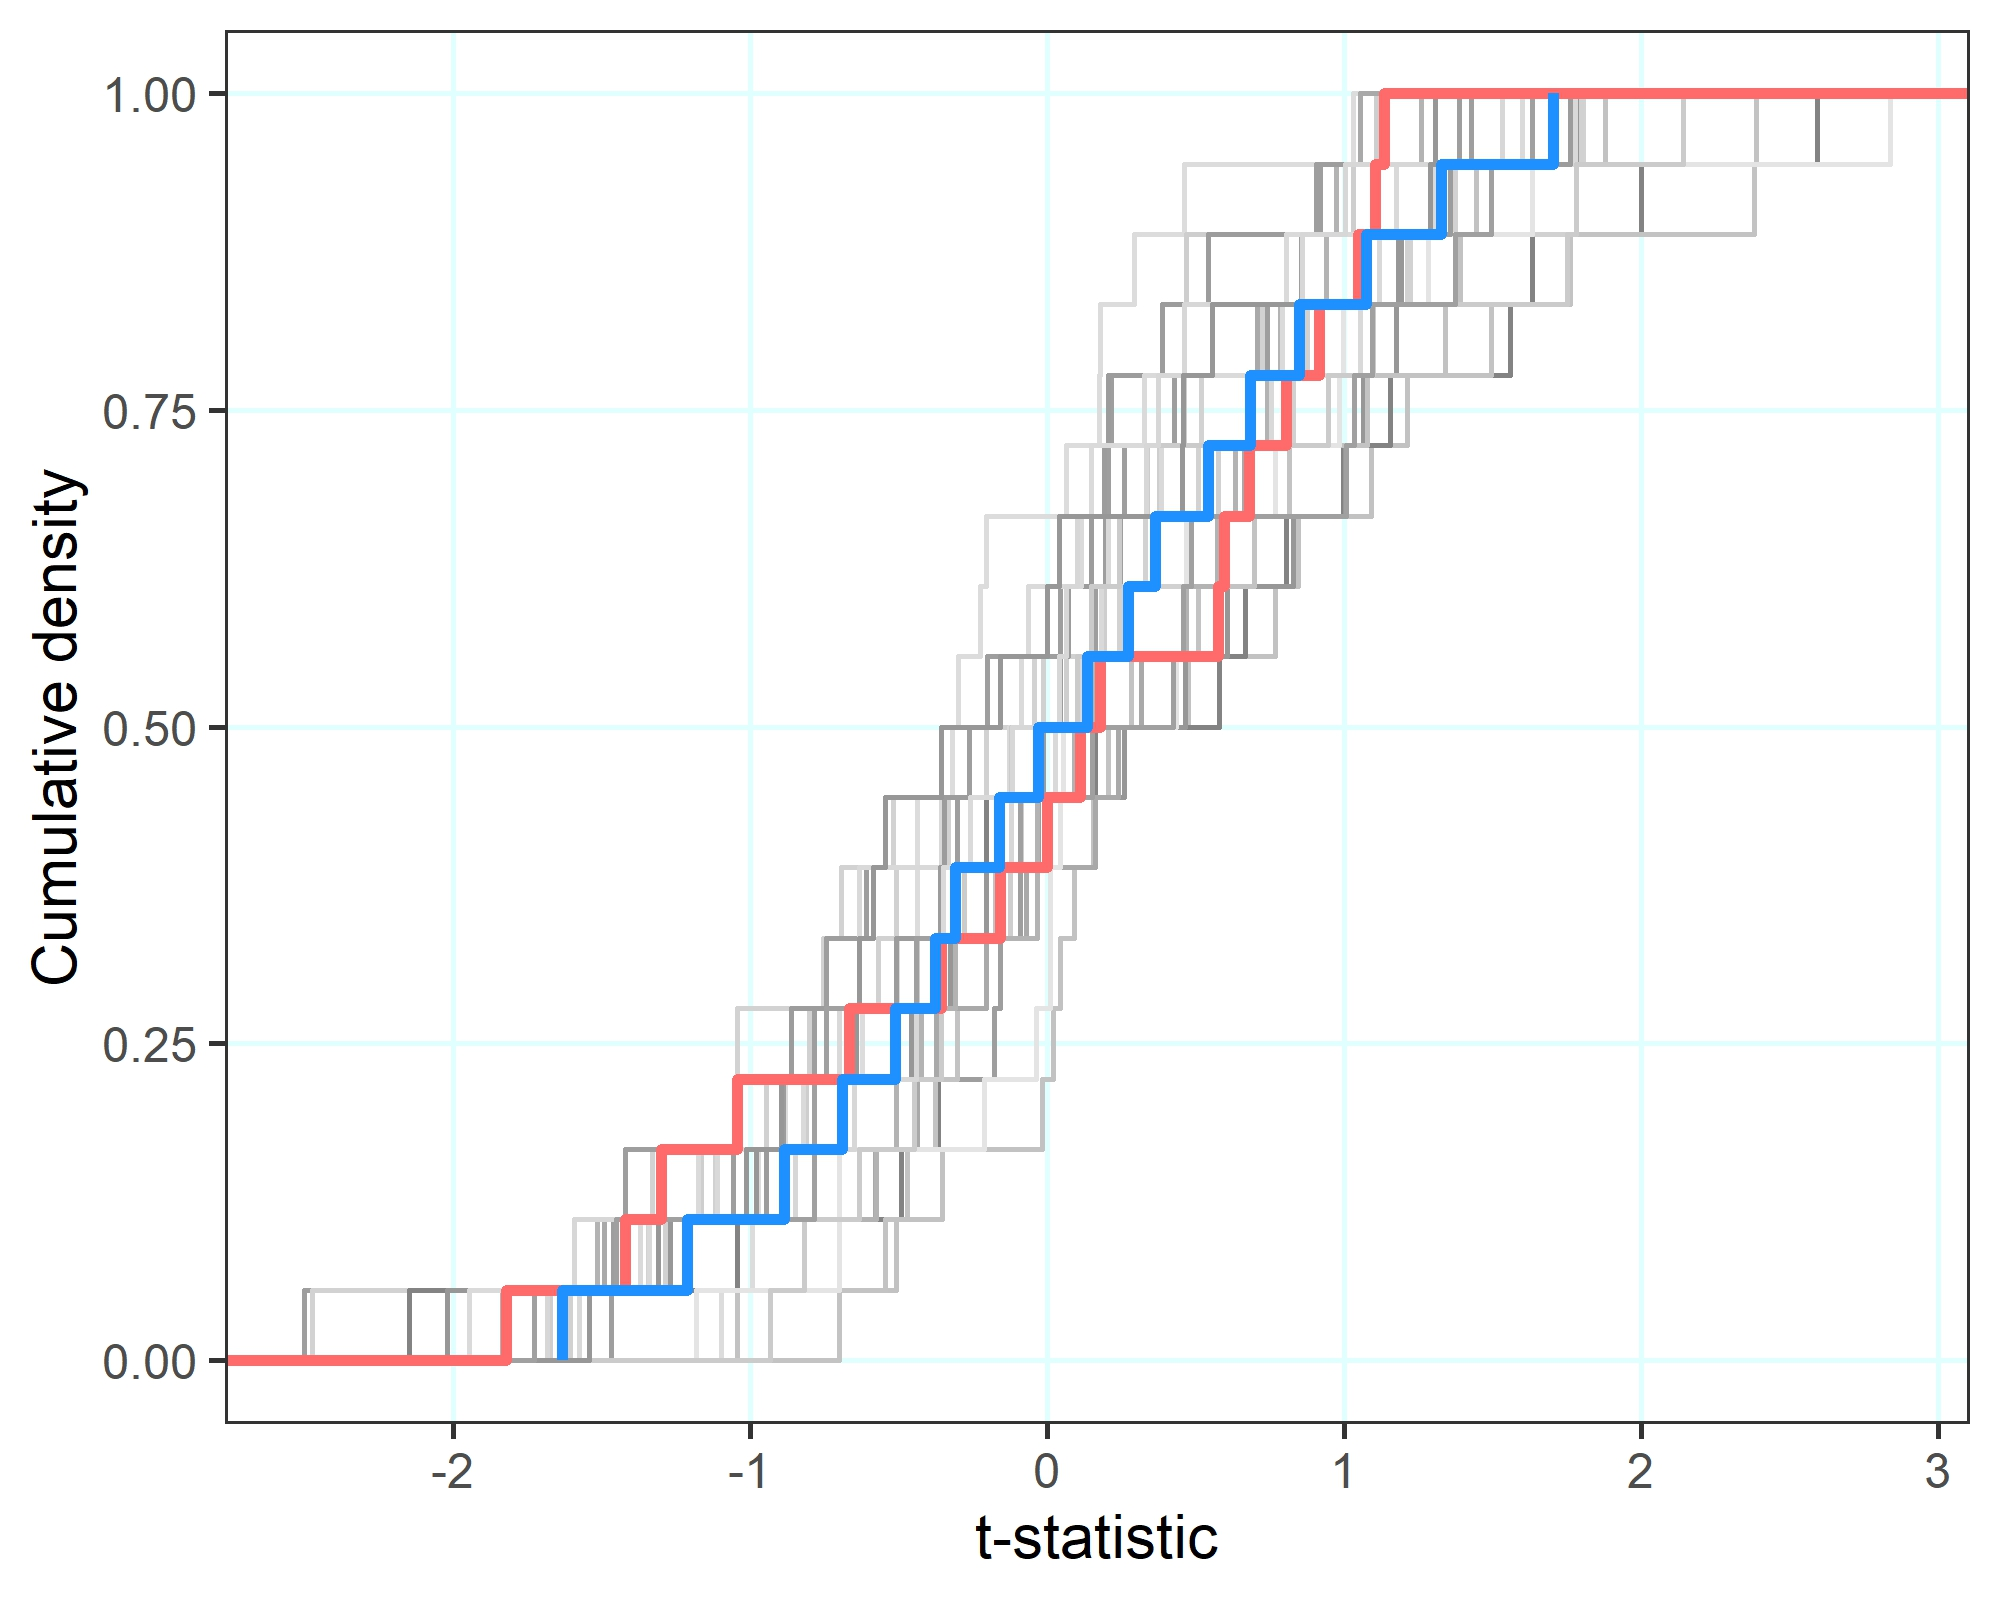
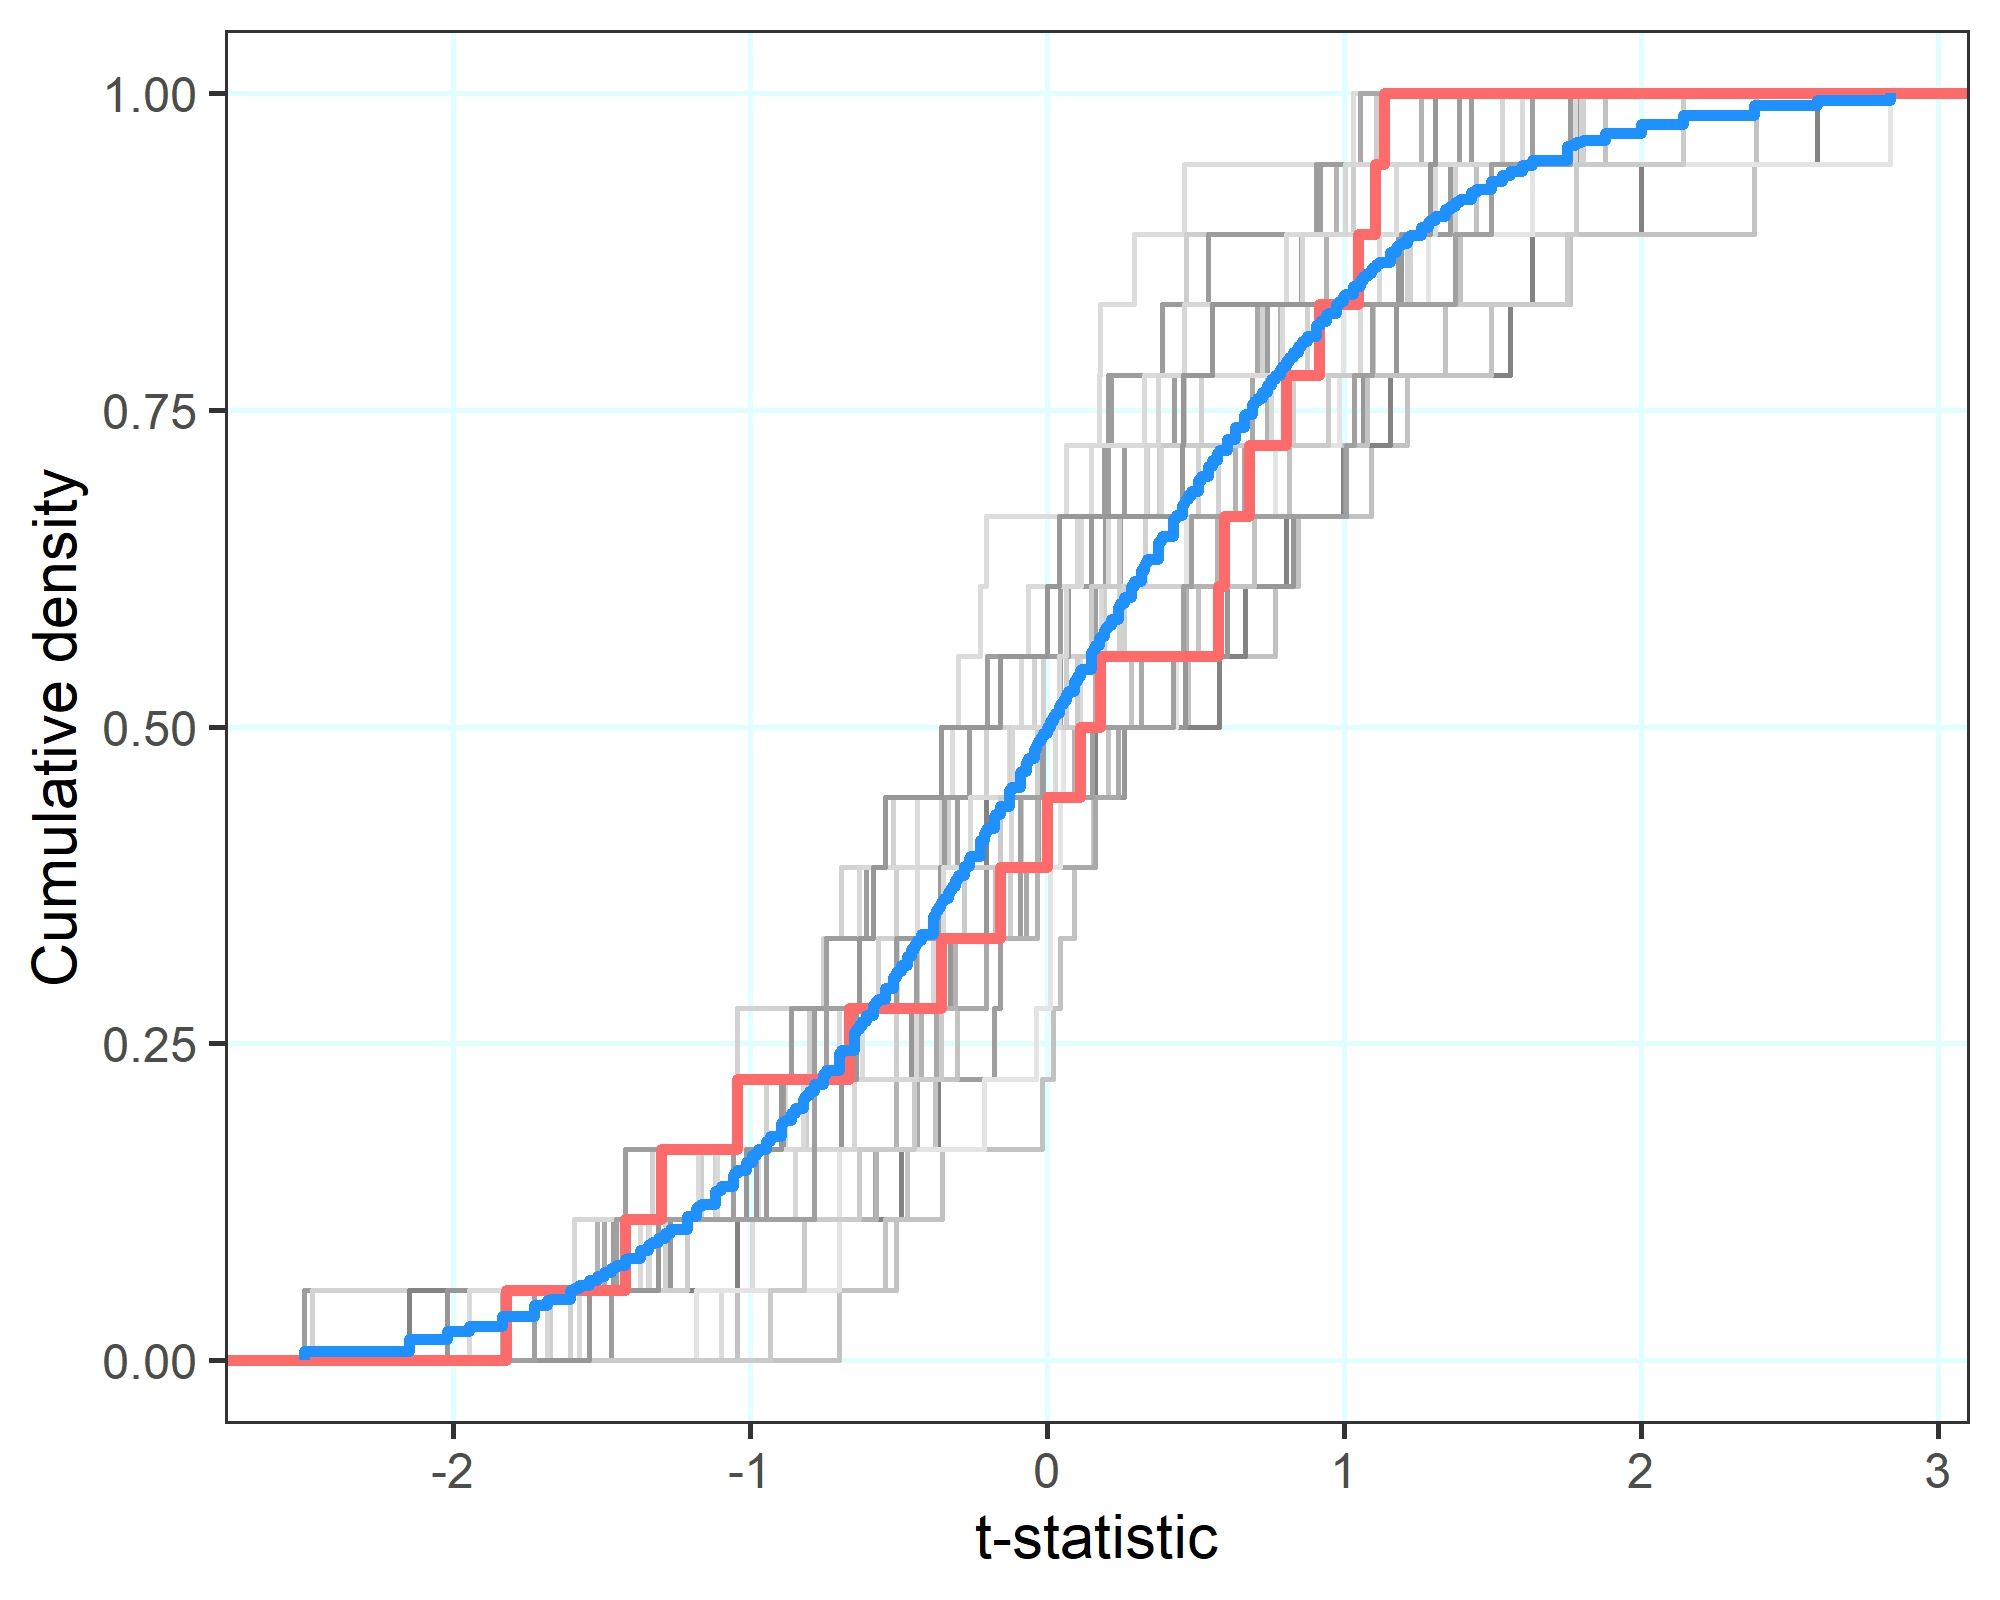
fix blue line

Changed region(s): [[0.155, 0.0625, 0.93, 0.875]]

diff --git a/README.md b/README.md
@@ -6,4 +6,4 @@ Can also be used to try to automatically extract a baseline table from a PubMed 
 
 RRID = SCR_025128, see [Scicrunch](https://scicrunch.org/resources/data/record/nlx_144509-1/RRID:SCR_025128/resolver?q=baseline&i=rrid:scr_025128).
 
-See published paper [here](https://f1000research.com/articles/11-783).
+See published paper [here](https://f1000research.com/articles/11-783/v2).
